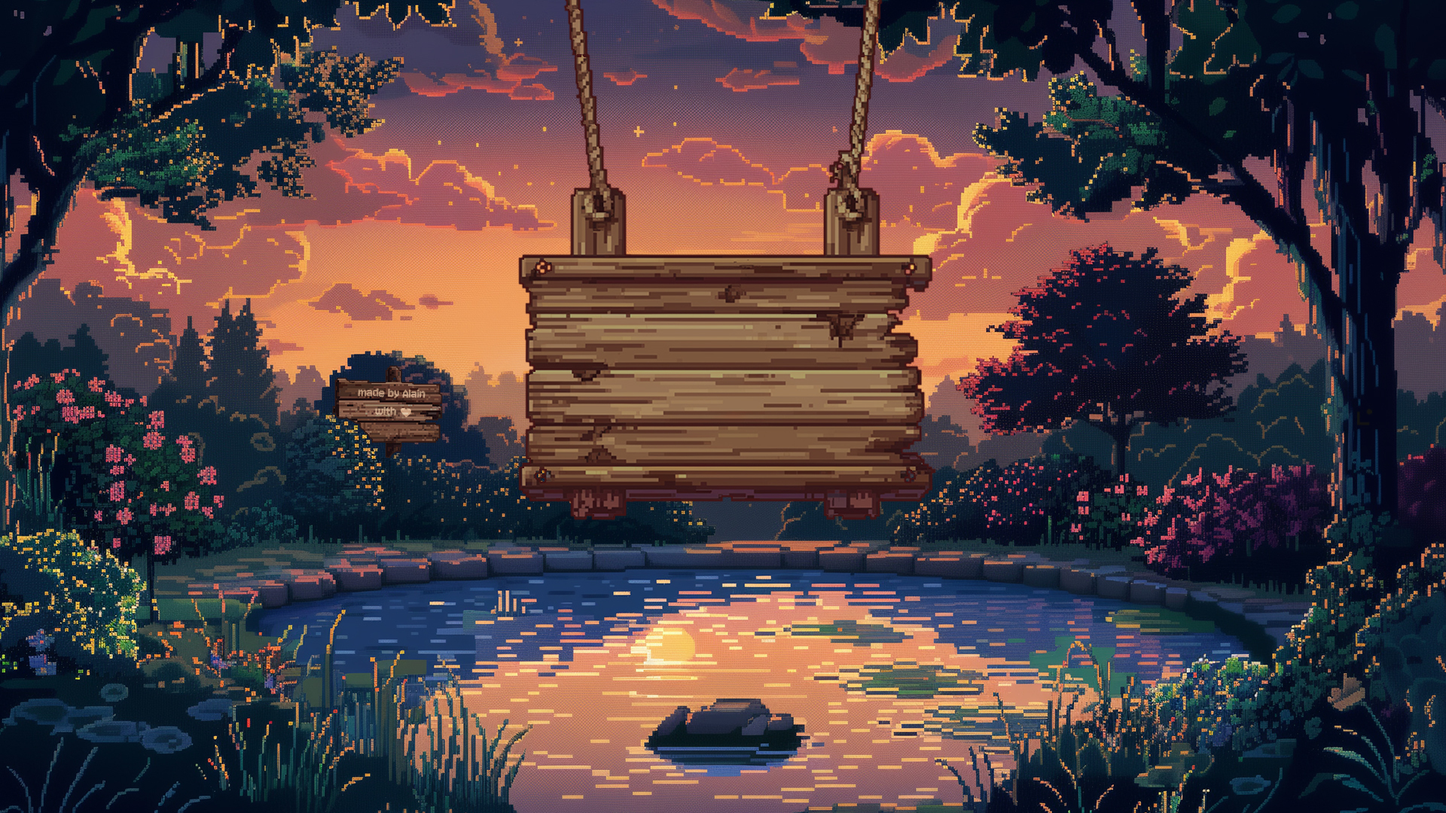
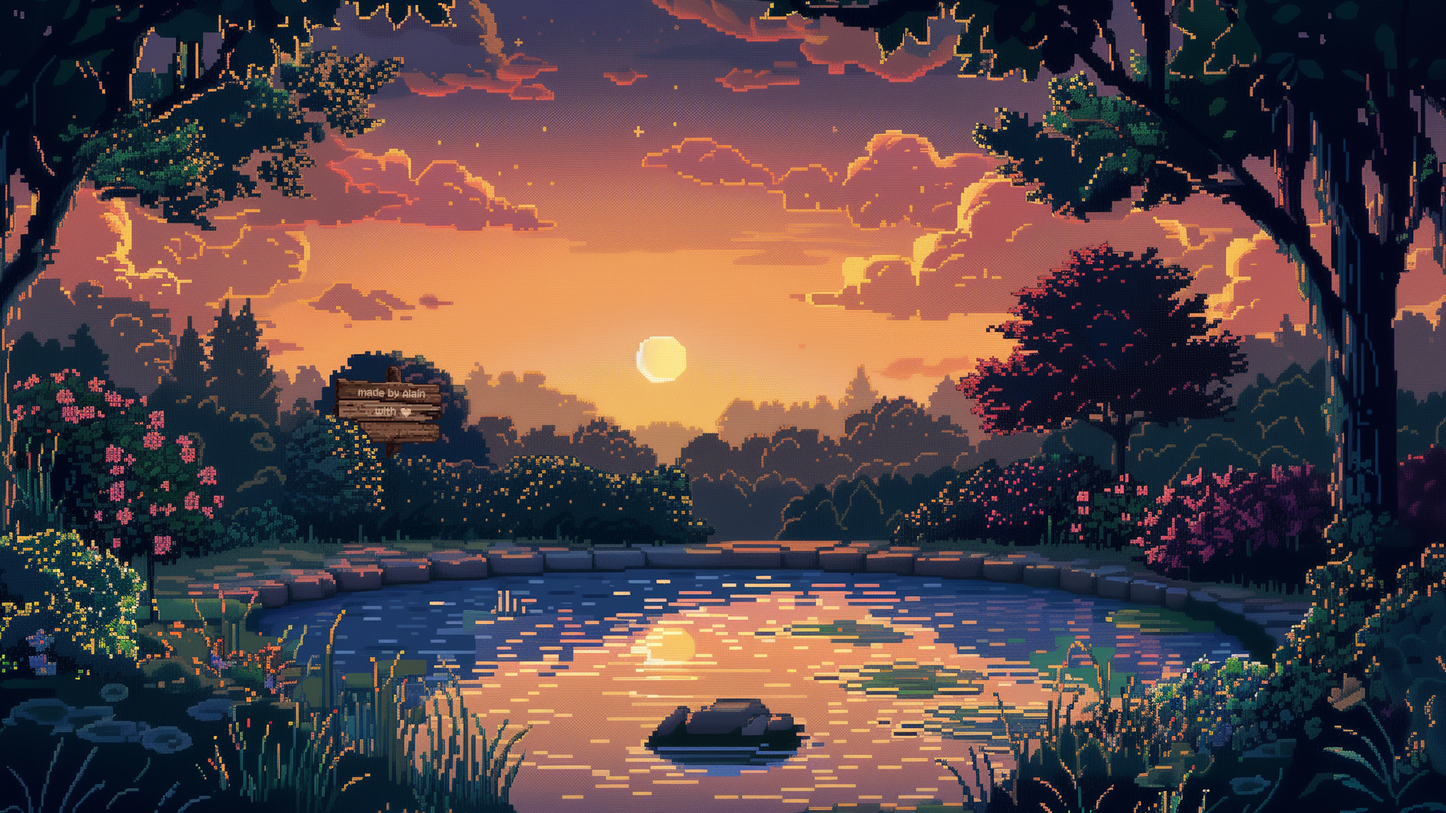
feat: Better responsiveness

Changed region(s): [[0.3438, 0.0, 0.6562, 0.6417]]

diff --git a/src/components/ConnectButton.tsx b/src/components/ConnectButton.tsx
@@ -1,68 +1,73 @@
-import {useEffect} from "react";
+import { useEffect } from 'react';
 import './ConnectButton.css';
 
 export default function ConnectButton() {
-    useEffect(() => {
-        const updateButtonStyle = async () => {
-            const w3mButton = document.querySelector('w3m-button');
-            if (!w3mButton) {
-                return;
-            }
+  useEffect(() => {
+    const updateButtonStyle = async () => {
+      const w3mButton = document.querySelector('w3m-button');
+      if (!w3mButton) {
+        return;
+      }
 
-            const shadowRoot = w3mButton.shadowRoot;
-            if (!shadowRoot) {
-                return;
-            }
+      const shadowRoot = w3mButton.shadowRoot;
+      if (!shadowRoot) {
+        return;
+      }
 
-            const w3mConnectButton = shadowRoot.querySelector('w3m-connect-button');
-            if (!w3mConnectButton) {
-                return;
-            }
+      const w3mConnectButton = shadowRoot.querySelector('w3m-connect-button');
+      if (!w3mConnectButton) {
+        return;
+      }
 
-            const shadowRoot2 = w3mConnectButton.shadowRoot;
-            if (!shadowRoot2) {
-                return;
-            }
+      const shadowRoot2 = w3mConnectButton.shadowRoot;
+      if (!shadowRoot2) {
+        return;
+      }
 
-            const wuiConnectButton = shadowRoot2.querySelector('wui-connect-button');
-            if (!wuiConnectButton) {
-                return;
-            }
+      const wuiConnectButton = shadowRoot2.querySelector('wui-connect-button');
+      if (!wuiConnectButton) {
+        return;
+      }
 
-            const shadowRoot3 = wuiConnectButton.shadowRoot;
-            if (!shadowRoot3) {
-                return;
-            }
+      const shadowRoot3 = wuiConnectButton.shadowRoot;
+      if (!shadowRoot3) {
+        return;
+      }
 
-            const button = shadowRoot3.querySelector('button');
-            if (!button) {
-                return;
-            }
+      const button = shadowRoot3.querySelector('button');
+      if (!button) {
+        return;
+      }
 
-            button.style.border = 'none';
+      button.style.border = 'none';
 
-            const wuiButton = button.querySelector('wui-text');
-            if (!wuiButton) {
-                return;
-            }
+      const wuiButton = button.querySelector('wui-text');
+      if (!wuiButton) {
+        return;
+      }
 
-            const shadowRoot4 = wuiButton.shadowRoot;
-            if (!shadowRoot4) {
-                return;
-            }
+      const shadowRoot4 = wuiButton.shadowRoot;
+      if (!shadowRoot4) {
+        return;
+      }
 
-            const text = shadowRoot4.querySelector('slot');
-            if (!text) {
-                return;
-            }
+      const text = shadowRoot4.querySelector('slot');
+      if (!text) {
+        return;
+      }
 
-            text.style.fontSize = '50px';
-        };
+      if (window.matchMedia('(max-width: 992px)').matches) {
+        console.log('small screen');
+        text.style.fontSize = '32px!important';
+      } else {
+        text.style.fontSize = '50px';
+      }
+    };
 
-        updateButtonStyle();
-    }, []);
+    updateButtonStyle();
+  }, []);
 
-    return <div className={'connect-button-container'}>
-        <w3m-button/>
-    </div>
+  return <div className={'connect-button-container'}>
+    <w3m-button />
+  </div>;
 }

diff --git a/src/components/GenericButton.tsx b/src/components/GenericButton.tsx
@@ -1,28 +1,28 @@
-import {ReactNode, useEffect, useState} from 'react';
+import { ReactNode, useEffect, useState } from 'react';
 import './GenericButton.css';
 
 interface GenericButtonProps {
-    children: ReactNode;
-    disabled: boolean;
-    label?: string | undefined;
-    onClick?: (() => Promise<void>) | undefined;
+  children: ReactNode;
+  disabled: boolean;
+  label?: string | undefined;
+  onClick?: (() => Promise<void>) | undefined;
 }
 
-export default function GenericButton({children, disabled, label, onClick}: GenericButtonProps) {
-    const [buttonHeight, setButtonHeight] = useState('auto');
+export default function GenericButton({ children, disabled, label, onClick }: GenericButtonProps) {
+  const [buttonHeight, setButtonHeight] = useState('auto');
 
-    useEffect(() => {
-        const img = new Image();
-        img.onload = () => {
-            setButtonHeight(`${img.height}px`);
-        }
-        img.src = disabled ? 'button_disabled_source.png' : '/button_enabled.png';
-    }, [disabled]);
+  useEffect(() => {
+    const img = new Image();
+    img.onload = () => {
+      setButtonHeight(`${img.height}px`);
+    };
+    img.src = disabled ? 'button_disabled_source.png' : '/button_enabled.png';
+  }, [disabled]);
 
-    return <div className={`generic-button${disabled ? ' disabled' : ''}${label ? ' with-label' : ''}`}
-                onClick={onClick}
-                style={{height: buttonHeight}}>
-        {label ? <div className={`generic-button-label${disabled ? ' disabled' : ''}`}>{label}</div> :
-            <div>{children}</div>}
-    </div>
+  return <div className={`generic-button${disabled ? ' disabled' : ''}${label ? ' with-label' : ''}`}
+              onClick={onClick}
+              style={{ height: buttonHeight }}>
+    {label ? <div className={`generic-button-label${disabled ? ' disabled' : ''}`}>{label}</div> :
+      <>{children}</>}
+  </div>;
 }

diff --git a/src/App.css b/src/App.css
@@ -6,6 +6,10 @@ body {
     background-size: cover;
     background-position: center;
     background-repeat: no-repeat;
+    height: 100vh;
+    display: flex;
+    justify-content: center;
+    align-items: center;
 }
 
 #root {
@@ -21,45 +25,6 @@ body {
     align-items: center;
     box-sizing: border-box;
     flex-grow: 1;
-}
-
-.grooving-frog {
-    position: absolute;
-    background-image: url(/grooving_frog.gif);
-    background-size: 100% auto;
-    background-repeat: no-repeat;
-    top: 50%;
-    left: 50%;
-    transform: translate(180px, 230px);
-    width: 100px;
-    height: 100px;
-    display: flex;
-    justify-content: center;
-    align-items: center;
-    flex-direction: column;
-    cursor: pointer;
-}
-
-.tokens-owned {
-    color: #000000;
-    margin-bottom: 1rem;
-}
-
-form {
-    width: 50%;
-    padding: 20px;
-    background-color: #fff;
-    border-radius: 4px;
-    box-shadow: 0 0 10px rgba(0, 0, 0, 0.1);
-    display: flex;
-    flex-direction: column;
-    align-items: center;
-}
-
-@media only screen and (max-width: 600px) {
-    form {
-        width: 80%;
-    }
 }
 
 .error {
@@ -82,4 +47,23 @@ form {
 
 .pending {
     color: #FF8C00;
+}
+
+@media (min-width: 992px) {
+    .grooving-frog {
+        position: absolute;
+        background-image: url(/grooving_frog.gif);
+        background-size: 100% auto;
+        background-repeat: no-repeat;
+        top: 50%;
+        left: 50%;
+        transform: translate(180px, 230px);
+        width: 100px;
+        height: 100px;
+        display: flex;
+        justify-content: center;
+        align-items: center;
+        flex-direction: column;
+        cursor: pointer;
+    }
 }

diff --git a/src/components/GenericPanel.css b/src/components/GenericPanel.css
@@ -1,18 +1,45 @@
 .generic-panel {
-    width: 20vw;
-    position: absolute;
-    top: 50%;
+    position: relative;
+    display: flex;
+    justify-content: center;
+    align-items: center;
+    flex-direction: column;
+}
+
+.signage-image {
+    position: fixed;
+    top: 20%;
     left: 50%;
-    transform: translate(-50%, -70%);
-    text-align: center;
+    transform: translate(-50%, -50%);
+    content: url(/signage-phone.png);
 }
 
 .generic-panel-title {
-    font-size: clamp(24px, 10vh, 80px);
+    position: fixed;
+    z-index: 1;
     color: #ffffff;
+    text-align: center;
+    font-size: clamp(24px, 5vh, 80px);
+    /* width: 20%; */
+    top: 30%;
+    left: 50%;
+    transform: translate(-50%, -50%);
 }
 
-.generic-panel-subtitle {
-    font-size: clamp(16px, 6vh, 60px);
-    color: #ffffff;
+@media (min-width: 992px) {
+    .signage-image {
+        content: url(/signage.png);
+    }
+
+    .generic-panel-title {
+        position: fixed;
+        z-index: 1;
+        color: #ffffff;
+        text-align: center;
+        font-size: clamp(24px, 10vh, 80px);
+        width: 20%;
+        top: 40%;
+        left: 50%;
+        transform: translate(-50%, -50%);
+    }
 }

diff --git a/src/components/GenericPanel.tsx b/src/components/GenericPanel.tsx
@@ -1,13 +1,16 @@
 import './GenericPanel.css';
 
 interface GenericPanelProps {
-    title: string;
-    subtitle?: string | undefined;
+  title: string;
+  subtitle?: string | undefined;
 }
 
-export default function GenericPanel({title, subtitle}: GenericPanelProps) {
-    return <div className={'generic-panel'}>
-        <div className={'generic-panel-title'}>{title}</div>
-        {subtitle && <div className={'generic-panel-subtitle'}>{subtitle}</div>}
+export default function GenericPanel({ title, subtitle }: GenericPanelProps) {
+  return (
+    <div className={'generic-panel'}>
+      <div className="signage-image" />
+      <div className={'generic-panel-title'}>{title}</div>
+      {subtitle && <div className={'generic-panel-subtitle'}>{subtitle}</div>}
     </div>
+  );
 }

diff --git a/src/components/GenericButton.css b/src/components/GenericButton.css
@@ -3,15 +3,8 @@
     background-image: url(/button_enabled.png);
     background-size: 100% auto;
     background-repeat: no-repeat;
-    top: 50%;
-    left: 50%;
-    transform: translate(-50%, 140px);
-    min-width: 20%;
-    display: flex;
-    justify-content: center;
-    align-items: center;
-    flex-direction: column;
     cursor: pointer;
+    width: 50%;
 }
 
 .generic-button.disabled {
@@ -32,3 +25,16 @@
     font-size: clamp(24px, 5vh, 40px);
 }
 
+@media (min-width: 992px) {
+    .generic-button {
+        top: 50%;
+        left: 50%;
+        transform: translate(-50%, 140px);
+        min-width: 20%;
+        display: flex;
+        justify-content: center;
+        align-items: center;
+        flex-direction: column;
+        width: auto;
+    }
+}

diff --git a/src/components/ConnectButton.css b/src/components/ConnectButton.css
@@ -1,3 +1,18 @@
+@media (max-width: 500px) {
+    button[data-size='md'] > wui-text > slot {
+        font-size: 32px !important;
+    }
+}
+
 .connect-button-container {
-    transform: translate(0%, -30%);
+    position: absolute;
+    transform: translate(-50%, -160%);
+    top: 50%;
+    left: 50%;
+}
+
+@media (min-width: 992px) {
+    .connect-button-container {
+        transform: translate(-50%, -65%);
+    }
 }
